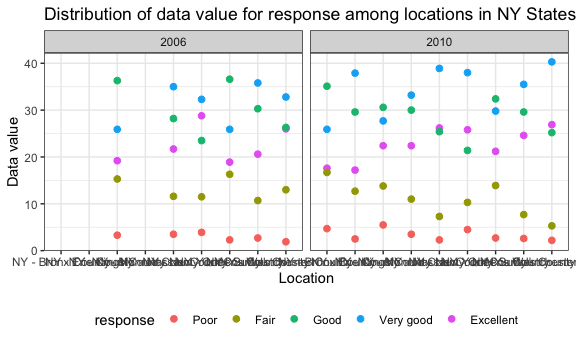
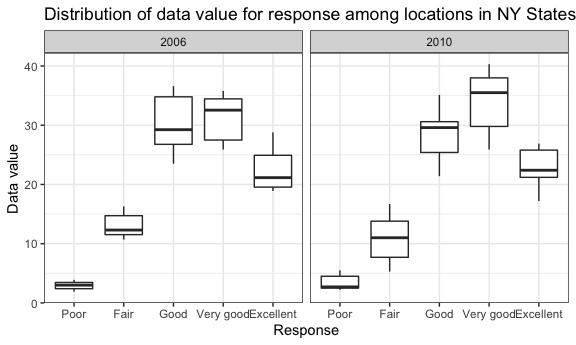
change the 3rd question answer to problem2

diff --git a/p8105_hw3_yl4358.md b/p8105_hw3_yl4358.md
@@ -242,15 +242,14 @@ excellent_df %>%
 brfss_smart2010 %>% 
   filter(year == 2006 | year == 2010) %>%
   filter(locationabbr == "NY") %>% 
-  group_by(response) %>% 
-  ggplot(aes(x = locationdesc, y = data_value, color = response )) + 
-    geom_point(size = 2) +
+  group_by(year, response) %>%
+  ggplot(aes(x = response, y = data_value)) +
+  geom_boxplot() +
   labs(
     title = "Distribution of data value for response among locations in NY States",
-    x = "Location",
+    x = "Response",
     y = "Data value"
   ) +
-  theme(plot.title = element_text(hjust = 0.5)) +
   theme_bw() +
   theme(legend.position = "bottom") +
   facet_grid(.~year)
@@ -259,4 +258,7 @@ brfss_smart2010 %>%
 <img src="p8105_hw3_yl4358_files/figure-gfm/unnamed-chunk-9-1.png" width="90%" />
 
   - Concluded from the plot, `Good` and `Very good` response have high
-    data value compared with other responses.
+    data value compared with other responses among locations in NY
+    state.
+
+# Problem 3
